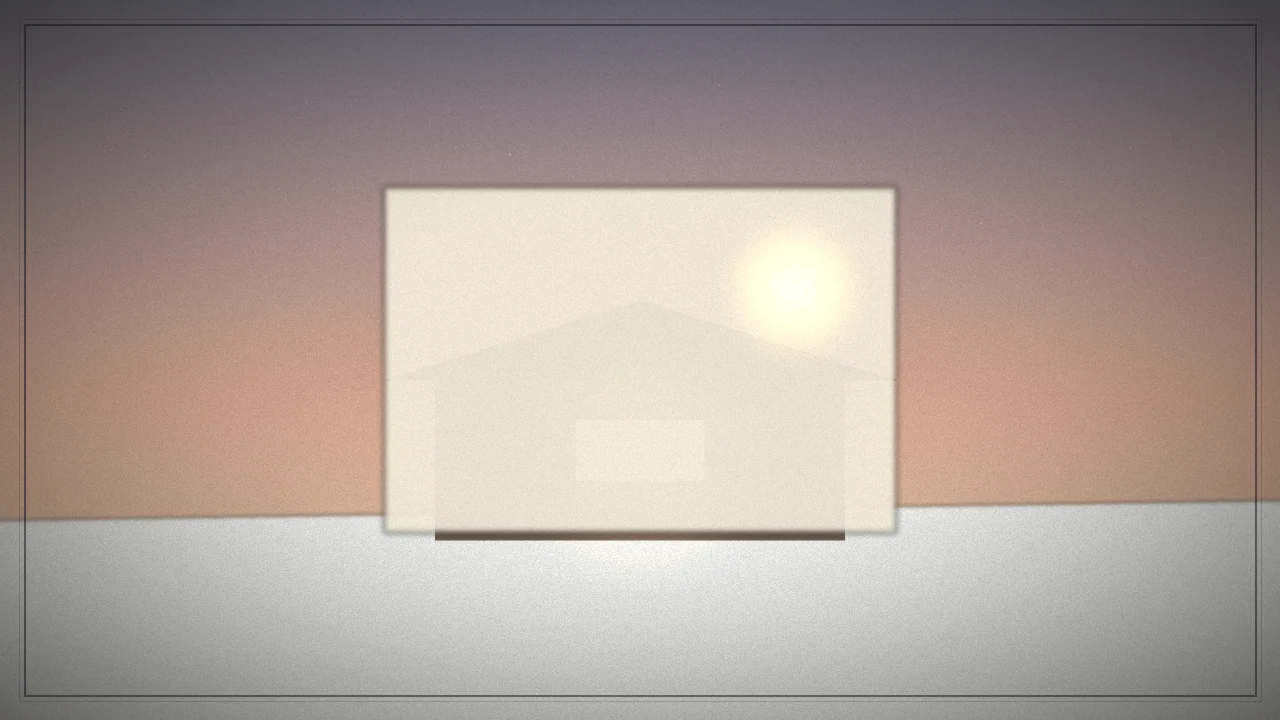
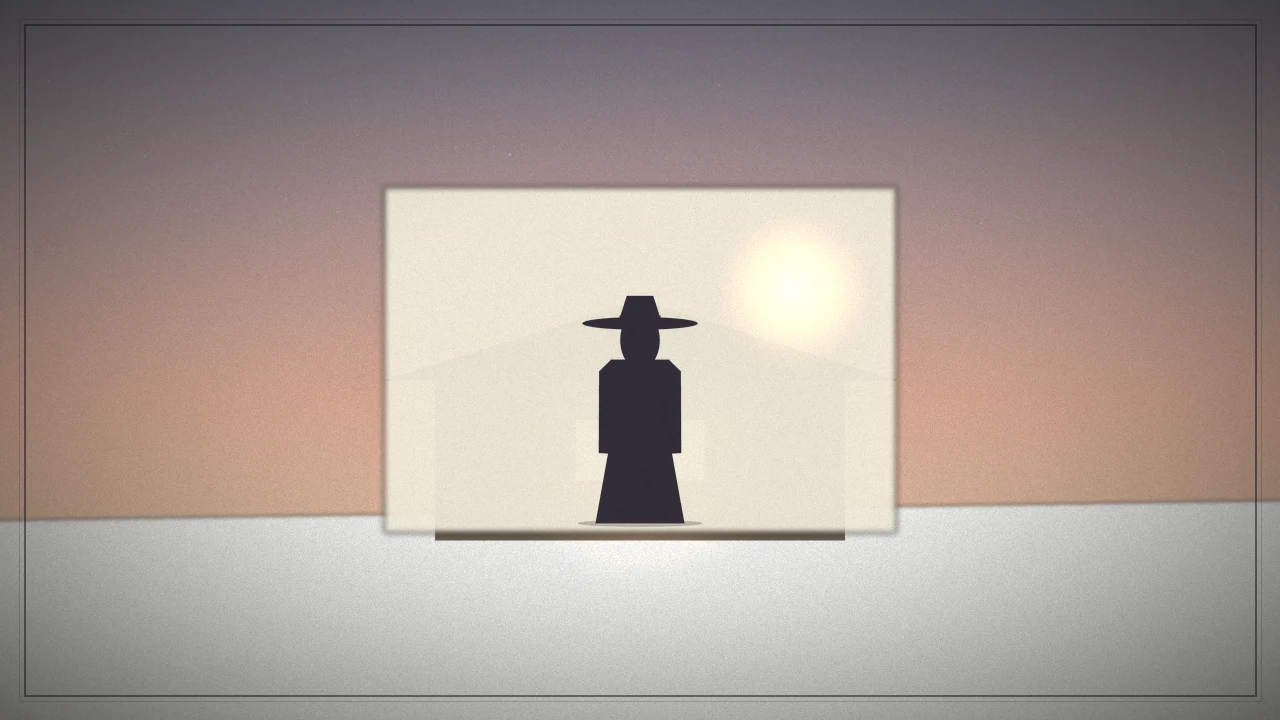
Add character silhouettes to the four remaining CGs
Add Ei and Yae silhouette specs and let paste_figure rotate a figure
(used for the puppet lying on the tatami). Populate sleeping_puppet,
raiden_yae, glass_cell (with a glass sheen), child_drawing and niwa_note
so every CG carries the characters it depicts.

Changed region(s): [[0.4375, 0.3972, 0.5625, 0.7333]]

diff --git a/tools/make_art.py b/tools/make_art.py
@@ -288,6 +288,12 @@ SPRITE_SPECS = {
     "cyno": dict(skin="#dcbd97", hair="#1c1c26", hair_style="short",
                  coat="#2a2a34", coat_dark="#1a1a22", accent="#c9a44a",
                  trim="#c9a44a", hat=None, ears="jackal", height=950),
+    "ei": dict(skin="#f2ddca", hair="#6a5a9a", hair_style="long",
+               coat="#4a3a6a", coat_dark="#352a52", accent="#c9a44a",
+               trim="#dcd8ea", hat=None, height=955),
+    "yae": dict(skin="#f6e3cf", hair="#eec2d6", hair_style="long",
+                coat="#f0eee8", coat_dark="#d8d0c8", accent="#b03040",
+                trim="#b03040", hat=None, ears="fox", height=940),
 }
 
 EXPR = {
@@ -567,15 +573,24 @@ def sprite_figure(tag, expr):
     return Image.alpha_composite(aura, lay)
 
 
-def paste_figure(arr, tag, cx_frac, base_frac, h_frac, flat=None, expr="neutral"):
-    """Paste a scaled character (dark silhouette by default) onto a plate."""
+def paste_figure(arr, tag, cx_frac, base_frac, h_frac, flat=None, expr="neutral", rotate=0):
+    """Paste a scaled character (dark silhouette by default) onto a plate.
+
+    Normally `base_frac` is where the feet rest. When `rotate` is non-zero the
+    figure is turned (e.g. 90 for a body lying down) and `base_frac` becomes the
+    figure's centre instead."""
     fig = render_figure(tag, expr, flat=flat)
     target_h = int(H * h_frac)
     target_w = max(1, int(fig.width * target_h / fig.height))
     fig = fig.resize((target_w, target_h), Image.LANCZOS)
+    if rotate:
+        fig = fig.rotate(rotate, expand=True, resample=Image.BICUBIC)
+        x = int(W * cx_frac - fig.width / 2)
+        y = int(H * base_frac - fig.height / 2)
+    else:
+        x = int(W * cx_frac - target_w / 2)
+        y = int(H * base_frac - target_h)
     layer = Image.new("RGBA", (W, H), (0, 0, 0, 0))
-    x = int(W * cx_frac - target_w / 2)
-    y = int(H * base_frac - target_h)
     layer.alpha_composite(fig, (max(0, x), max(0, y)))
     return composite(arr, layer)
 
@@ -1061,16 +1076,23 @@ def cg_plate(key):
         arr = add_glow(arr, W * 0.5, H * 0.55, 300, (255, 200, 120), 0.6)
     elif key == "sleeping_puppet":
         arr = cg_scene(bg_tatami)
+        arr = paste_figure(arr, "wanderer", 0.5, 0.74, 0.4, flat=SILHOUETTE, rotate=90)
+        arr = add_glow(arr, W * 0.5, H * 0.55, 240, (255, 210, 150), 0.35)
     elif key == "raiden_yae":
         arr = cg_scene(bg_shrine)
+        arr = paste_figure(arr, "ei", 0.40, 1.0, 0.92, flat=SILHOUETTE)
+        arr = paste_figure(arr, "yae", 0.62, 1.0, 0.9, flat=SILHOUETTE)
+        arr = add_glow(arr, W * 0.5, H * 0.32, 320, (205, 175, 240), 0.3)
     elif key == "niwa_note":
         arr = cg_scene(bg_furnace_room)
+        arr = paste_figure(arr, "wanderer", 0.42, 1.0, 0.9, flat=SILHOUETTE)
         arr = composite(arr, shape(lambda d: d.rectangle(S((W * 0.34, H * 0.34, W * 0.66, H * 0.7)),
                                                          fill=(238, 232, 214, 240)), (238, 232, 214), 2))
     elif key == "child_drawing":
         arr = cg_scene(bg_house, "dawn")
         arr = composite(arr, shape(lambda d: d.rectangle(S((W * 0.3, H * 0.26, W * 0.7, H * 0.74)),
                                                          fill=(242, 236, 220, 240)), (242, 236, 220), 3))
+        arr = paste_figure(arr, "wanderer", 0.5, 0.74, 0.34, flat=SILHOUETTE)
         arr = add_glow(arr, W * 0.62, H * 0.4, 90, (230, 170, 70), 0.6)
     elif key == "hooked_pinkies":
         arr = cg_scene(bg_house, "dawn")
@@ -1087,6 +1109,10 @@ def cg_plate(key):
         arr = _lens(arr)
     elif key == "glass_cell":
         arr = cg_scene(bg_lab, "cube")
+        arr = paste_figure(arr, "wanderer", 0.5, 1.0, 0.86, flat=SILHOUETTE)
+        arr = composite(arr, shape(lambda d: d.polygon(
+            S([(W * 0.22, H * 0.10), (W * 0.45, H * 0.10), (W * 0.30, H * 0.98), (W * 0.22, H * 0.98)]),
+            fill=(185, 215, 245, 45)), (185, 215, 245), 4))
     elif key == "two_palms":
         arr = cg_scene(bg_lab, "cube")
         arr = _hand(arr, W * 0.44, H * 0.55, 1.1, (230, 230, 240), 200)
